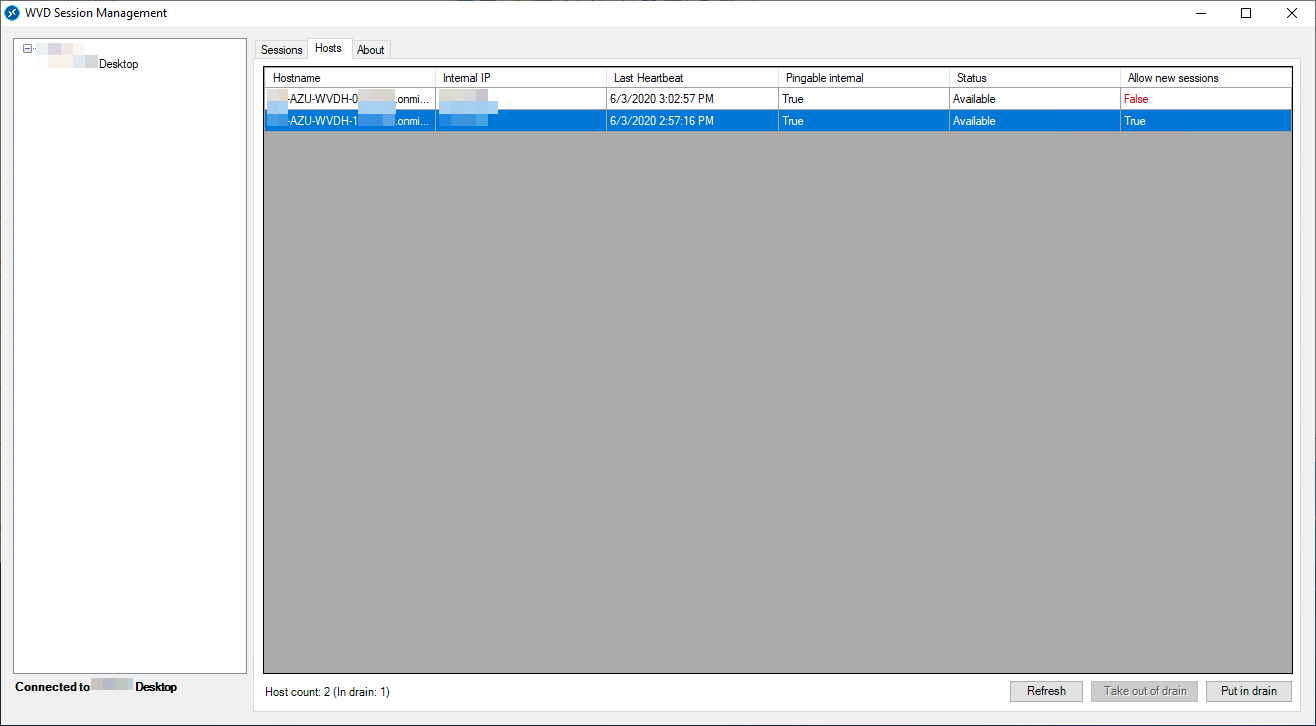
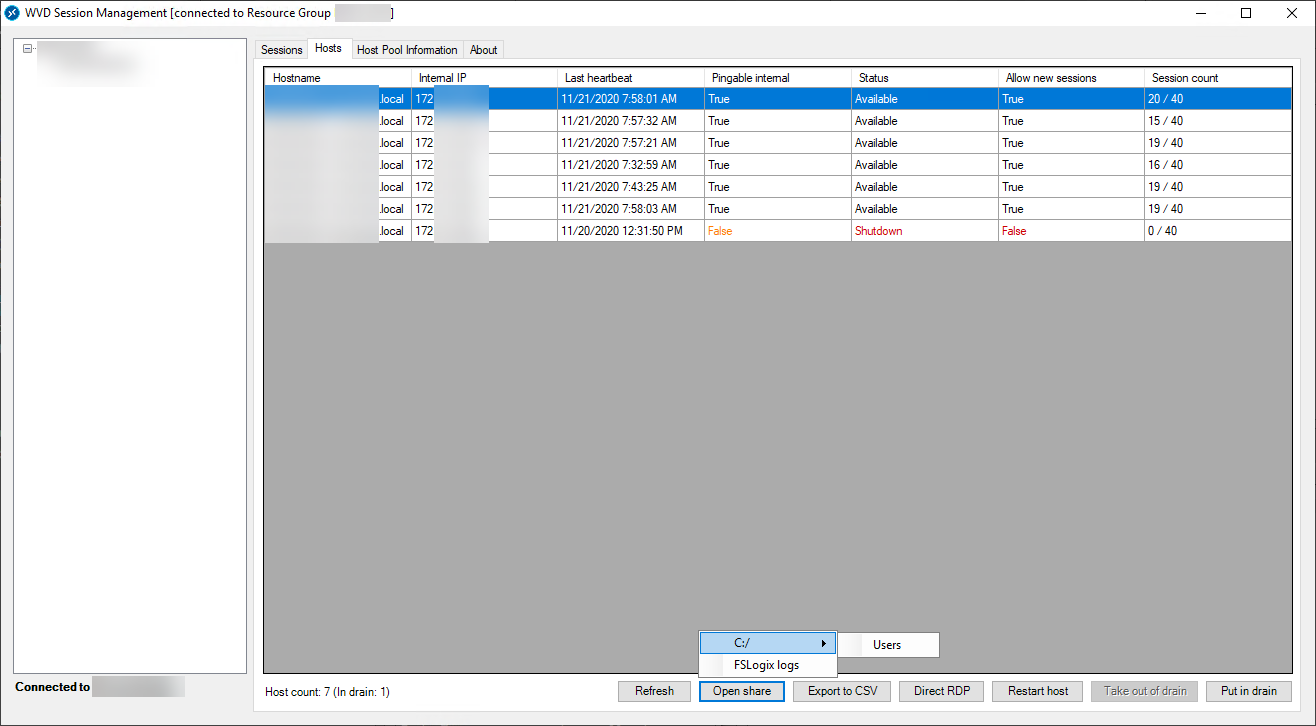
Add description

diff --git a/WVD/WVD Session Management ARM-based/README.md b/WVD/WVD Session Management ARM-based/README.md
@@ -1,0 +1,29 @@
+# WVD Session Management tool (ARM version)
+
+This PowerShell script uses a form to provide a GUI to some of the AZ PowerShell modules for Windows Virtual Desktop Hostpools. It is not perfect by any stretch of the word and should be considered an messy, unoptimized Alpha release. The code comes as-is as a stub to get your own things working (that being said, it should work fine). I cannot provide support but will happily take any bug reports.
+
+## Pre-requisites
+
+- The [Az.DesktopVirtualization](https://docs.microsoft.com/en-us/powershell/module/az.desktopvirtualization/?view=azps-5.1.0) module for PowerShell.
+
+  - ```powershell
+    Install-Module -Name Az.DesktopVirtualization
+    ```
+
+## Pre-configuration
+
+The script will ask for your Tenant ID and Resource group on start but you may save these to the registry to prevent it from asking each time:
+
+```
+[HKEY_LOCAL_MACHINE\SOFTWARE\Pylsa]
+"WVDResourceGroupName"=""
+"TenantId"=""
+```
+
+If you want to get the remote shadowing part working, check out Robin Hobo's blog [here](https://www.robinhobo.com/how-to-shadow-an-active-user-session-in-windows-virtual-desktop-via-remote-desktop-connection-mstc/)! He has a great explanation
+
+## Screenshots
+
+![Session overview](https://raw.githubusercontent.com/PylsaPylsa/Powershell/master/WVD/WVD%20Session%20Management%20ARM-based/Screenshots%20Sessions.png)
+
+![Hosts overview](https://raw.githubusercontent.com/PylsaPylsa/Powershell/master/WVD/WVD%20Session%20Management%20ARM-based/Screenshot%20Hosts.png)
